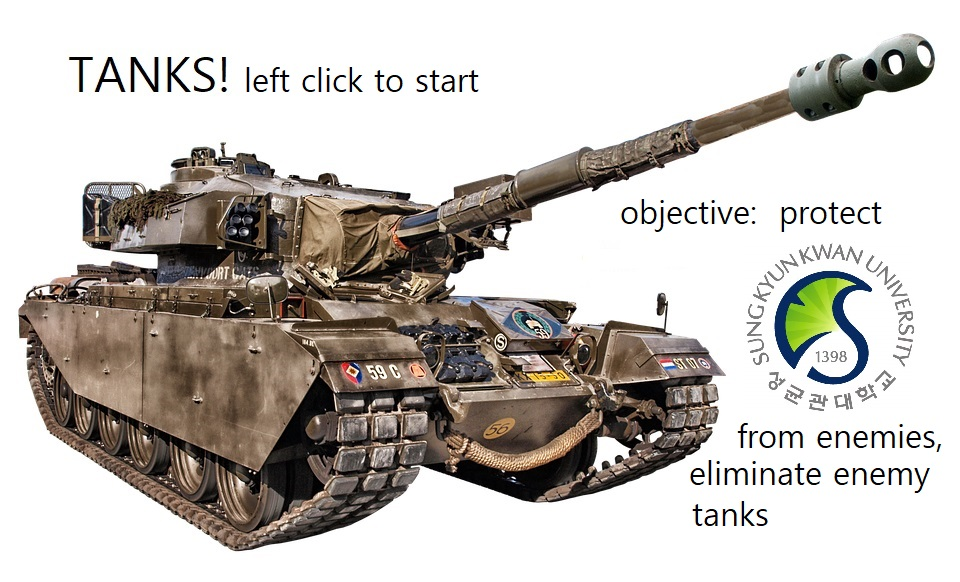
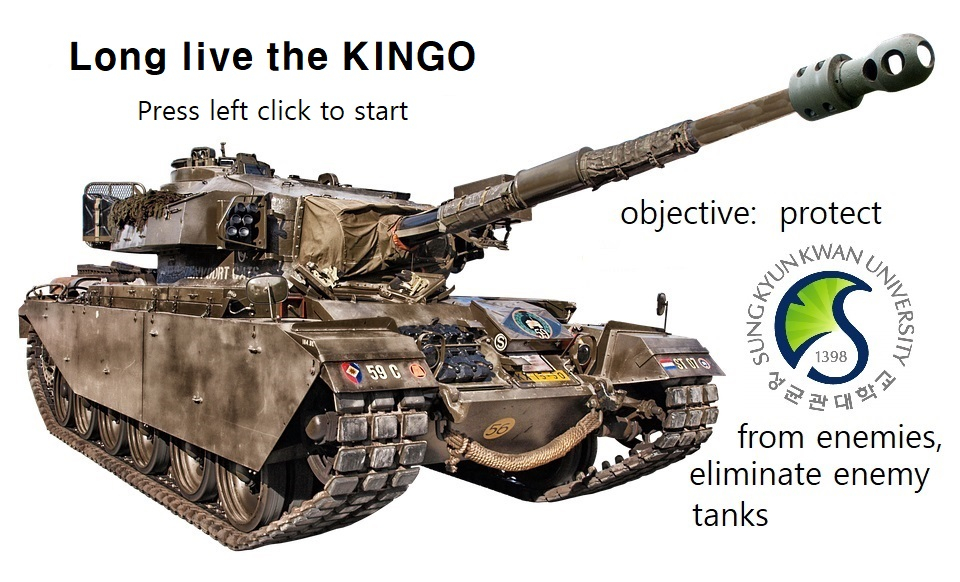
image, speed update

Changed region(s): [[0.0625, 0.0619, 0.5, 0.2165]]

diff --git a/src/main.cpp b/src/main.cpp
@@ -20,7 +20,7 @@ bool init_text();
 void render_text( std::string text, GLint x, GLint y, GLfloat scale, vec4 color, GLfloat dpi_scale=1.0f );
 
 // global constants
-static const char* window_name = "Tanks!";
+static const char* window_name = "RedVelvetHorde - Long live the KINGO";
 static const char* vert_shader_path = "../bin/shaders/trackball.vert";
 static const char* frag_shader_path = "../bin/shaders/trackball.frag";
 static const char* brick_path = "../bin/images/brick.jpg";
